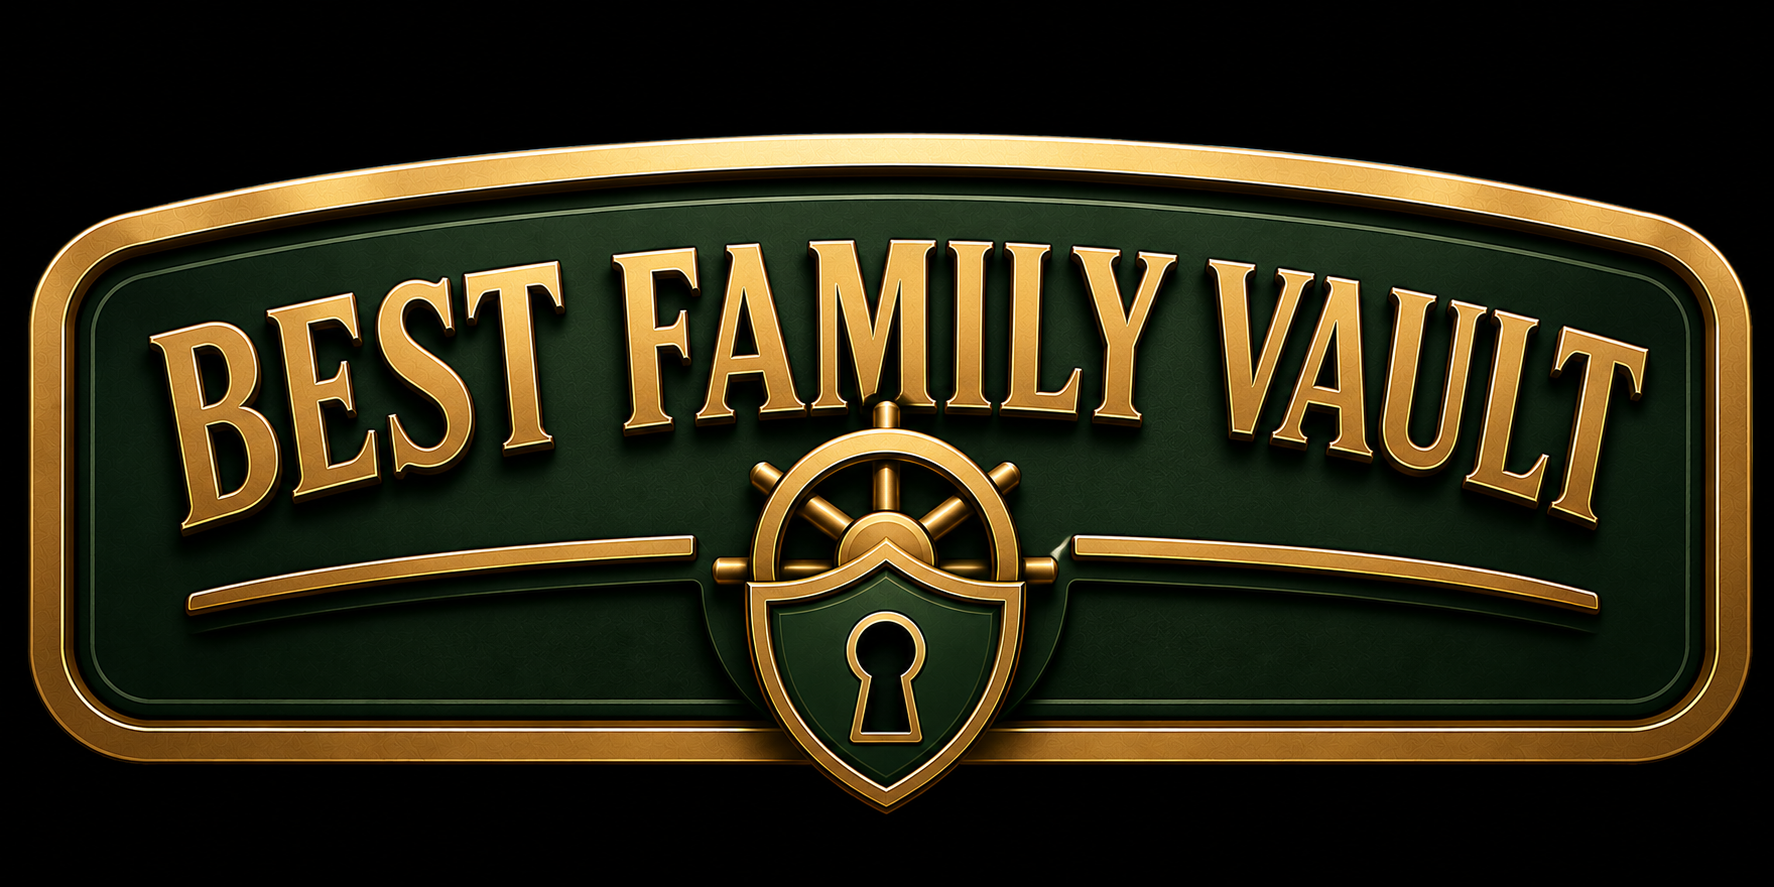
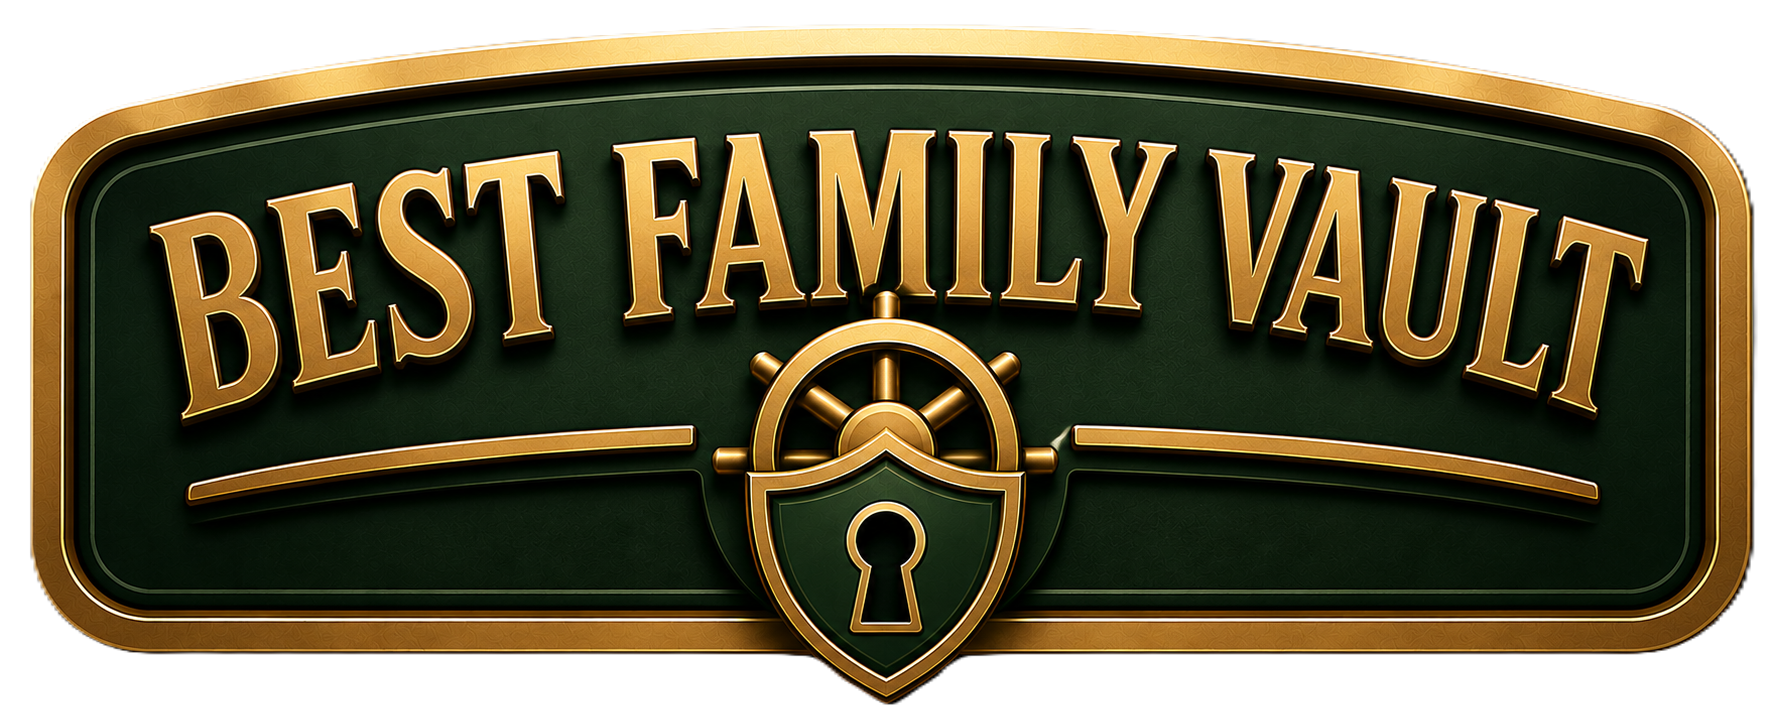
Apply vault palette and fix public image proxy

diff --git a/src/components/ui/onboarding-wizard.tsx b/src/components/ui/onboarding-wizard.tsx
@@ -16,7 +16,7 @@ import {
 } from 'lucide-react'
 
 type StepId = 'intro' | 'goals' | 'household' | 'details' | 'import' | 'finish'
-type ThemeKey = 'gold' | 'emerald' | 'sky' | 'rose' | 'violet' | 'teal'
+type ThemeKey = 'gold' | 'green' | 'blue' | 'red'
 
 type OnboardingState = {
   goals: string[]
@@ -33,11 +33,11 @@ type OnboardingState = {
 
 const steps: Array<{ id: StepId; label: string; theme: ThemeKey }> = [
   { id: 'intro', label: 'Intro', theme: 'gold' },
-  { id: 'goals', label: 'Goals', theme: 'emerald' },
-  { id: 'household', label: 'People', theme: 'sky' },
-  { id: 'details', label: 'Details', theme: 'rose' },
-  { id: 'import', label: 'Import', theme: 'violet' },
-  { id: 'finish', label: 'Prepare', theme: 'teal' },
+  { id: 'goals', label: 'Goals', theme: 'green' },
+  { id: 'household', label: 'People', theme: 'blue' },
+  { id: 'details', label: 'Details', theme: 'red' },
+  { id: 'import', label: 'Import', theme: 'blue' },
+  { id: 'finish', label: 'Prepare', theme: 'green' },
 ]
 
 const themes: Record<ThemeKey, {
@@ -62,7 +62,7 @@ const themes: Record<ThemeKey, {
     selectedIcon: 'text-amber-200',
     subtle: 'text-amber-100',
   },
-  emerald: {
+  green: {
     accent: 'text-emerald-200',
     badge: 'border-emerald-300/30 bg-emerald-500/10 text-emerald-100',
     glow: 'shadow-emerald-950/30',
@@ -73,7 +73,7 @@ const themes: Record<ThemeKey, {
     selectedIcon: 'text-emerald-300',
     subtle: 'text-emerald-100',
   },
-  sky: {
+  blue: {
     accent: 'text-sky-200',
     badge: 'border-sky-300/30 bg-sky-500/10 text-sky-100',
     glow: 'shadow-sky-950/30',
@@ -84,38 +84,16 @@ const themes: Record<ThemeKey, {
     selectedIcon: 'text-sky-200',
     subtle: 'text-sky-100',
   },
-  rose: {
-    accent: 'text-rose-200',
-    badge: 'border-rose-300/30 bg-rose-500/10 text-rose-100',
-    glow: 'shadow-rose-950/30',
-    icon: 'border-rose-400/30 bg-rose-400/10 text-rose-200',
-    panel: 'border-rose-400/25 bg-rose-500/10',
-    progress: 'bg-rose-400',
-    selected: 'border-rose-400/70 bg-rose-400/10 text-rose-100',
-    selectedIcon: 'text-rose-200',
-    subtle: 'text-rose-100',
-  },
-  violet: {
-    accent: 'text-violet-200',
-    badge: 'border-violet-300/30 bg-violet-500/10 text-violet-100',
-    glow: 'shadow-violet-950/30',
-    icon: 'border-violet-400/30 bg-violet-400/10 text-violet-200',
-    panel: 'border-violet-400/25 bg-violet-500/10',
-    progress: 'bg-violet-400',
-    selected: 'border-violet-400/70 bg-violet-400/10 text-violet-100',
-    selectedIcon: 'text-violet-200',
-    subtle: 'text-violet-100',
-  },
-  teal: {
-    accent: 'text-teal-200',
-    badge: 'border-teal-300/30 bg-teal-500/10 text-teal-100',
-    glow: 'shadow-teal-950/30',
-    icon: 'border-teal-400/30 bg-teal-400/10 text-teal-200',
-    panel: 'border-teal-400/25 bg-teal-500/10',
-    progress: 'bg-teal-400',
-    selected: 'border-teal-400/70 bg-teal-400/10 text-teal-100',
-    selectedIcon: 'text-teal-200',
-    subtle: 'text-teal-100',
+  red: {
+    accent: 'text-red-200',
+    badge: 'border-red-300/30 bg-red-500/10 text-red-100',
+    glow: 'shadow-red-950/30',
+    icon: 'border-red-400/30 bg-red-400/10 text-red-200',
+    panel: 'border-red-400/25 bg-red-500/10',
+    progress: 'bg-red-500',
+    selected: 'border-red-400/70 bg-red-500/10 text-red-100',
+    selectedIcon: 'text-red-200',
+    subtle: 'text-red-100',
   },
 }
 
@@ -240,7 +218,7 @@ export function OnboardingWizard() {
             <div className="grid grid-cols-3 gap-3 text-xs text-stone-200">
               <MiniStat icon={<LockKeyhole size={16} />} label="Passwords" tone="text-amber-200" />
               <MiniStat icon={<FileKey size={16} />} label="Documents" tone="text-sky-200" />
-              <MiniStat icon={<Users size={16} />} label="Family" tone="text-rose-200" />
+              <MiniStat icon={<Users size={16} />} label="Family" tone="text-red-200" />
             </div>
           </div>
         </aside>
@@ -275,9 +253,9 @@ export function OnboardingWizard() {
                   theme={theme}
                 >
                   <div className="grid gap-3 sm:grid-cols-3">
-                    <IntroTile icon={<LockKeyhole size={18} />} title="Passwords" copy="Bring in your logins and organize them by person." tone="amber" />
-                    <IntroTile icon={<Home size={18} />} title="Household" copy="Name the people and places this vault protects." tone="sky" />
-                    <IntroTile icon={<Import size={18} />} title="Imports" copy="Tell us what you use today so the next step is clear." tone="violet" />
+                    <IntroTile icon={<LockKeyhole size={18} />} title="Passwords" copy="Bring in your logins and organize them by person." tone="gold" />
+                    <IntroTile icon={<Home size={18} />} title="Household" copy="Name the people and places this vault protects." tone="blue" />
+                    <IntroTile icon={<Import size={18} />} title="Imports" copy="Tell us what you use today so the next step is clear." tone="red" />
                   </div>
                 </StepShell>
               )}
@@ -464,9 +442,9 @@ function StepShell({
 }
 
 const introToneClasses = {
-  amber: 'border-amber-400/25 bg-amber-500/10 text-amber-200',
-  sky: 'border-sky-400/25 bg-sky-500/10 text-sky-200',
-  violet: 'border-violet-400/25 bg-violet-500/10 text-violet-200',
+  gold: 'border-amber-400/25 bg-amber-500/10 text-amber-200',
+  blue: 'border-sky-400/25 bg-sky-500/10 text-sky-200',
+  red: 'border-red-400/25 bg-red-500/10 text-red-200',
 }
 
 function IntroTile({ icon, title, copy, tone }: { icon: React.ReactNode; title: string; copy: string; tone: keyof typeof introToneClasses }) {

diff --git a/src/components/ui/new-entry-form.tsx b/src/components/ui/new-entry-form.tsx
@@ -95,15 +95,15 @@ const THEMES: Record<string, FormTheme> = {
     spinnerBorder: 'border-amber-200',
     hoverText: 'hover:text-amber-400',
   },
-  violet: {
-    inputFocus: 'focus:ring-violet-600/50 focus:border-violet-600',
-    button: 'bg-violet-700 hover:bg-violet-600 disabled:bg-violet-900',
-    check: 'text-violet-600 focus:ring-violet-600',
-    subtleText: 'text-violet-300',
-    pillIdle: 'bg-violet-900/40 hover:bg-violet-800/50 border-violet-700/40 text-violet-200',
-    pillFilled: 'bg-violet-700 hover:bg-violet-600',
-    spinnerBorder: 'border-violet-200',
-    hoverText: 'hover:text-violet-400',
+  red: {
+    inputFocus: 'focus:ring-red-600/50 focus:border-red-600',
+    button: 'bg-red-700 hover:bg-red-600 disabled:bg-red-900',
+    check: 'text-red-600 focus:ring-red-600',
+    subtleText: 'text-red-300',
+    pillIdle: 'bg-red-900/40 hover:bg-red-800/50 border-red-700/40 text-red-200',
+    pillFilled: 'bg-red-700 hover:bg-red-600',
+    spinnerBorder: 'border-red-200',
+    hoverText: 'hover:text-red-400',
   },
   rose: {
     inputFocus: 'focus:ring-rose-600/50 focus:border-rose-600',
@@ -117,13 +117,13 @@ const THEMES: Record<string, FormTheme> = {
   },
 }
 
-function themeForType(_t: EntryType): FormTheme {
+function themeForType(): FormTheme {
   // Reverted — Lance preferred the unified emerald look across all add
   // pages. The per-type palette mapping below is intentionally bypassed;
-  // restore by switching on `_t` again if you want it back.
+  // restore by accepting the entry type here and switching on it again.
   //   case 'login': return THEMES.amber
   //   case 'document': return THEMES.sky
-  //   case 'note' | 'credit_card': return THEMES.violet
+  //   case 'note' | 'credit_card': return THEMES.red
   //   case 'identity': return THEMES.rose
   //   default: return THEMES.emerald
   return THEMES.emerald
@@ -245,7 +245,7 @@ interface Props {
 export function NewEntryForm({ categories, subcategories, creditCards = [], familyProfiles = [], currentUserId, subscriptionsSubcategoryId, defaultCategoryId, defaultSubcategoryId, defaultIsPrivate, defaultIsPersonal, defaultIsRecurring, isSuperuser, defaultType }: Props) {
   const router = useRouter()
   const [type] = useState<EntryType>(resolveType(defaultType))
-  const theme = themeForType(type)
+  const theme = themeForType()
   const [categoryId, setCategoryId] = useState(defaultCategoryId ?? categories[0]?.id ?? '')
   const [subcategoryId, setSubcategoryId] = useState(defaultSubcategoryId ?? '')
   const [paidWith, setPaidWith] = useState('')

diff --git a/src/app/(auth)/layout.tsx b/src/app/(auth)/layout.tsx
@@ -9,21 +9,21 @@ export default function AuthLayout({ children }: { children: React.ReactNode }) 
           <div className="mb-4 flex justify-center">
             {/* eslint-disable-next-line @next/next/no-img-element */}
             <img
-              src="/mainscene.png"
-              alt=""
-              width={1792}
-              height={1024}
-              className="block h-auto w-full max-w-md object-cover rounded-xl"
+              src="/bestfamvault.png"
+              alt={APP_NAME}
+              width={1728}
+              height={922}
+              className="block h-auto w-full max-w-md mx-auto object-contain"
             />
           </div>
           {/* APP_NAME stays in the alt text so screen readers get the brand. */}
           {/* eslint-disable-next-line @next/next/no-img-element */}
           <img
-            src="/bestfamvault.png"
-            alt={APP_NAME}
-            width={1728}
-            height={922}
-            className="block h-auto w-full max-w-md mx-auto object-contain"
+            src="/mainscene.png"
+            alt=""
+            width={1792}
+            height={1024}
+            className="block h-auto w-full max-w-md object-cover rounded-xl"
           />
         </div>
         {children}

diff --git a/src/app/(auth)/login/page.tsx b/src/app/(auth)/login/page.tsx
@@ -39,22 +39,11 @@ export default function LoginPage() {
 
   return (
     <div className="bg-stone-900/80 backdrop-blur border border-stone-700/50 rounded-2xl p-6 sm:p-8 shadow-2xl">
-      <div className="mb-5 overflow-hidden rounded-xl border border-emerald-500/20 bg-stone-950/70">
-        {/* eslint-disable-next-line @next/next/no-img-element */}
-        <img
-          src="/bestfamvault.png"
-          alt="Best Family Vault"
-          width={1728}
-          height={922}
-          className="block h-auto w-full object-cover"
-        />
-      </div>
-
       <Link
         href="/onboarding"
-        className="group mb-5 grid grid-cols-[64px_1fr_auto] items-center gap-3 rounded-xl border border-emerald-500/25 bg-emerald-950/25 p-3 transition hover:border-emerald-400/50 hover:bg-emerald-950/40"
+        className="group mb-5 grid grid-cols-[64px_1fr_auto] items-center gap-3 rounded-xl border border-amber-500/30 bg-amber-950/25 p-3 transition hover:border-amber-400/60 hover:bg-amber-950/35"
       >
-        <span className="flex h-16 w-16 items-center justify-center overflow-hidden rounded-lg border border-emerald-400/20 bg-stone-950/70">
+        <span className="flex h-16 w-16 items-center justify-center overflow-hidden rounded-lg border border-amber-400/25 bg-stone-950/70">
           {/* eslint-disable-next-line @next/next/no-img-element */}
           <img
             src="/vaultlogo.png"
@@ -65,7 +54,7 @@ export default function LoginPage() {
           />
         </span>
         <span className="min-w-0">
-          <span className="flex items-center gap-1.5 text-xs font-medium uppercase tracking-[0.14em] text-emerald-300">
+          <span className="flex items-center gap-1.5 text-xs font-medium uppercase tracking-[0.14em] text-amber-300">
             <Sparkles size={13} />
             New vault
           </span>
@@ -76,7 +65,7 @@ export default function LoginPage() {
             Guided setup for imports, people, documents, and first steps.
           </span>
         </span>
-        <ArrowRight size={18} className="text-emerald-300 transition group-hover:translate-x-0.5" />
+        <ArrowRight size={18} className="text-amber-300 transition group-hover:translate-x-0.5" />
       </Link>
 
       {process.env.NEXT_PUBLIC_DEMO_MODE === 'true' && (

diff --git a/src/app/(dashboard)/dashboard/page.tsx b/src/app/(dashboard)/dashboard/page.tsx
@@ -429,7 +429,7 @@ export default async function DashboardPage() {
             img="/icons/cobb/icons/system/browsenotes.png"
             title="Notes"
             detail="Browse"
-            accent="violet"
+            accent="red"
           />
           <ActionTile
             href="/todos"
@@ -638,13 +638,13 @@ function ActionTile({
   img: string
   title: string
   detail: string
-  accent: 'emerald' | 'amber' | 'sky' | 'violet'
+  accent: 'emerald' | 'amber' | 'sky' | 'red'
 }) {
   const accentClass = {
     emerald: 'border-emerald-700/40 hover:border-emerald-500/70',
     amber: 'border-amber-700/40 hover:border-amber-500/70',
     sky: 'border-sky-700/40 hover:border-sky-500/70',
-    violet: 'border-violet-700/40 hover:border-violet-500/70',
+    red: 'border-red-700/40 hover:border-red-500/70',
   }[accent]
 
   return (

diff --git a/src/components/ui/categories-overlay.tsx b/src/components/ui/categories-overlay.tsx
@@ -105,7 +105,7 @@ interface TileProps {
   img: string
   title: string
   detail: string
-  accent?: 'amber' | 'violet' | 'sky' | 'emerald'
+  accent?: 'amber' | 'red' | 'sky' | 'emerald'
 }
 
 export function CategoriesTile({ categories, img, title, detail, accent = 'emerald' }: TileProps) {
@@ -114,7 +114,7 @@ export function CategoriesTile({ categories, img, title, detail, accent = 'emera
     emerald: 'border-emerald-700/40 hover:border-emerald-500/70',
     amber: 'border-amber-700/40 hover:border-amber-500/70',
     sky: 'border-sky-700/40 hover:border-sky-500/70',
-    violet: 'border-violet-700/40 hover:border-violet-500/70',
+    red: 'border-red-700/40 hover:border-red-500/70',
   }[accent]
 
   return (

diff --git a/src/proxy.ts b/src/proxy.ts
@@ -12,7 +12,7 @@ export const proxy = auth((req) => {
   // both online (for cache-seeding) and offline (when the SW serves it from
   // cache). The page itself contains zero server-rendered data — actual vault
   // content lives in the user's IndexedDB, encrypted with their local PIN.
-  const publicPaths = ['/login', '/register', '/invite', '/setup', '/demo', '/offline', '/forgot-password', '/reset-password']
+  const publicPaths = ['/login', '/register', '/invite', '/setup', '/demo', '/offline', '/forgot-password', '/reset-password', '/onboarding']
   const isPublic = publicPaths.some((p) => pathname.startsWith(p))
 
   if (!session && !isPublic) {
@@ -37,5 +37,5 @@ export const proxy = auth((req) => {
 })
 
 export const config = {
-  matcher: ['/((?!api|_next/static|_next/image|favicon.ico|sw.js|manifest.webmanifest|icons).*)'],
+  matcher: ['/((?!api|_next/static|_next/image|favicon.ico|sw.js|manifest.webmanifest|icons|.*\\.(?:png|jpg|jpeg|gif|webp|svg|ico|json|txt|xml|webmanifest)$).*)'],
 }

diff --git a/src/components/ui/user-menu.tsx b/src/components/ui/user-menu.tsx
@@ -155,7 +155,7 @@ export function UserMenu({ name, email, image, role, unreadCount = 0 }: Props) {
                 onClick={() => setOpen(false)}
                 className="flex items-center gap-2 px-3 py-2 text-sm text-stone-300 hover:bg-stone-800 hover:text-stone-100"
               >
-                <ShieldCheck size={15} className="text-purple-400" />
+                <ShieldCheck size={15} className="text-sky-400" />
                 Admin Panel
               </Link>
             )}

diff --git a/src/components/ui/user-row.tsx b/src/components/ui/user-row.tsx
@@ -7,7 +7,7 @@ import { clsx } from 'clsx'
 
 const roleBadge: Record<string, string> = {
   superuser: 'bg-emerald-950/40 text-emerald-400 border-emerald-900/50',
-  admin: 'bg-purple-900/40 text-purple-400 border-purple-800/50',
+  admin: 'bg-sky-950/40 text-sky-300 border-sky-800/50',
   member: 'bg-blue-900/40 text-blue-400 border-blue-800/50',
   readonly: 'bg-stone-700/40 text-stone-400 border-stone-600/50',
 }

diff --git a/AGENTS.md b/AGENTS.md
@@ -3,3 +3,11 @@
 
 This version has breaking changes — APIs, conventions, and file structure may all differ from your training data. Read the relevant guide in `node_modules/next/dist/docs/` before writing any code. Heed deprecation notices.
 <!-- END:nextjs-agent-rules -->
+
+## Vault Theme Colors
+
+Use the palette in `public/icons/system/themecolors.png` for highlights, filled pills, edit buttons, save buttons, focus rings, and selected states.
+
+![Vault theme colors](public/icons/system/themecolors.png)
+
+Stick to vault gold, deep green, vault red, and vault blue. Do not use purple/violet/indigo accents for new UI.